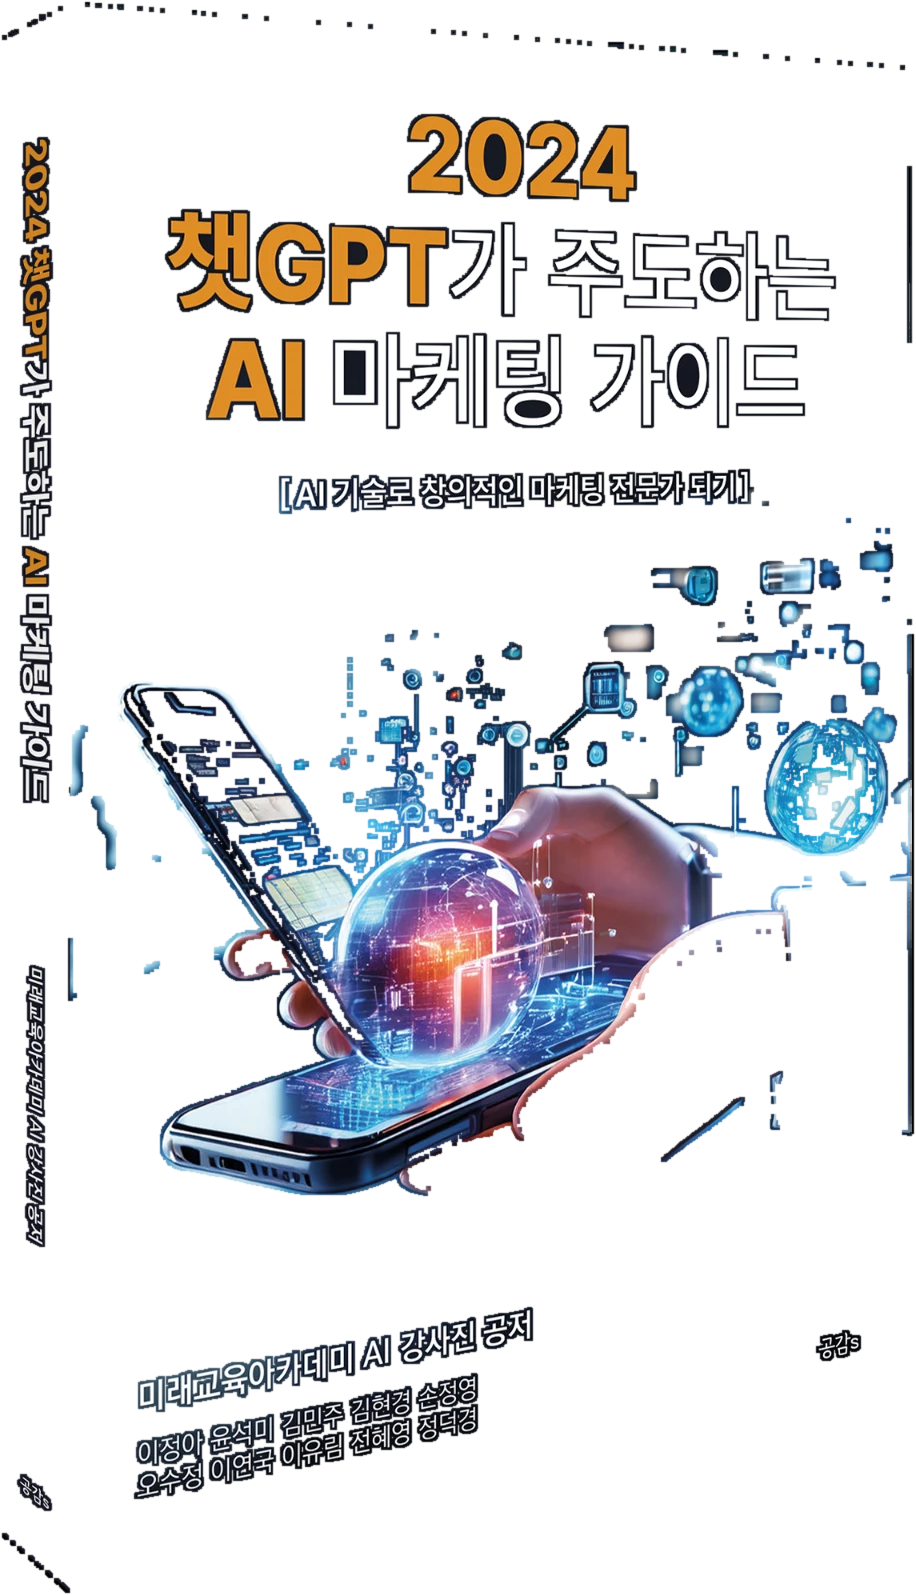
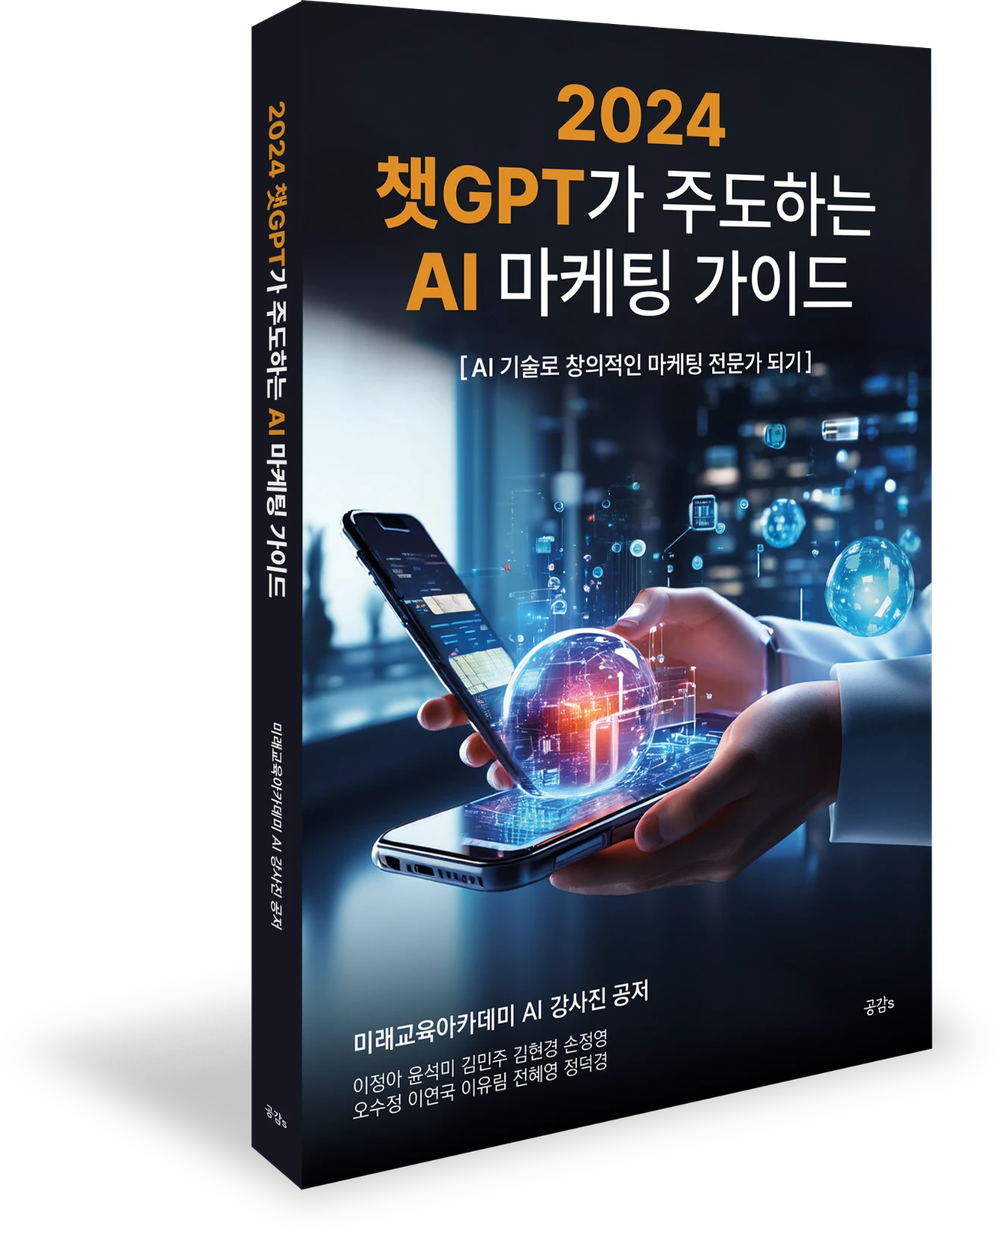
저서 표지: 원본 복원 및 밝은 스튜디오 패널로 배치
- 전달받은 원본이 이미 투명 배경이었는데 불필요한 배경 제거를 적용해
  표지의 어두운 영역이 손실됐던 문제 수정. 원본 픽셀 그대로 사용
- 어두운 표지를 어두운 배경에서 구분하기 위해 밝은 패널 위에 배치
- 네온 광·회전 효과 제거, 목업 자체 그림자만 사용

diff --git a/index.html b/index.html
@@ -397,28 +397,21 @@
   }
   .bs-sub{margin:0 0 14px;font-size:16px;color:var(--body);line-height:1.7}
   .bs-meta{margin:0;font-size:14.5px;color:var(--muted);line-height:1.75}
-  .book-stage{position:relative;display:grid;place-items:center;perspective:1400px;min-height:380px}
-  .book-stage::before{
-    content:"";position:absolute;left:50%;top:44%;transform:translate(-50%,-50%);
-    width:340px;height:340px;border-radius:50%;pointer-events:none;
-    background:radial-gradient(circle,rgba(91,140,255,.5) 0%,rgba(34,211,238,.2) 46%,transparent 72%);
-    filter:blur(28px);
-  }
-  .book-stage::after{
-    content:"";position:absolute;left:50%;bottom:7%;transform:translateX(-50%);
-    width:56%;height:26px;border-radius:50%;pointer-events:none;
-    background:radial-gradient(ellipse at center,rgba(0,0,0,.85) 0%,transparent 72%);
-    filter:blur(10px);
+  .book-stage{
+    position:relative;display:grid;place-items:center;
+    padding:40px 26px;border-radius:18px;overflow:hidden;
+    background:radial-gradient(135% 105% at 50% 0%,#f7f9ff 0%,#e6ebf8 55%,#ccd6ec 100%);
+    border:1px solid rgba(255,255,255,.22);
+    box-shadow:inset 0 1px 0 rgba(255,255,255,.9), 0 30px 56px -30px rgba(0,0,0,.85);
   }
   .book-stage img{
-    position:relative;width:min(238px,72%);height:auto;
-    transform:rotateY(-11deg) rotateX(2deg);
-    filter:drop-shadow(-16px 16px 26px rgba(0,0,0,.8));
+    width:min(240px,74%);height:auto;
+    filter:drop-shadow(0 16px 22px rgba(30,42,78,.28));
   }
   @media(max-width:820px){
     .book-show{grid-template-columns:1fr;gap:26px;text-align:left}
-    .book-stage{min-height:320px}
-    .book-stage img{width:min(200px,62%)}
+    .book-stage{padding:32px 20px}
+    .book-stage img{width:min(196px,62%)}
   }
   .awards{list-style:none;margin:0;padding:0}
   .awards li{font-size:15.5px;padding:10px 0;border-bottom:1px dashed var(--line)}
@@ -1186,7 +1179,7 @@
         </div>
         <div class="book-stage">
           <img src="assets/book.png" alt="2024 챗GPT가 주도하는 AI 마케팅 가이드 표지"
-               width="916" height="1595" loading="lazy" />
+               width="1000" height="1234" loading="lazy" />
         </div>
       </div>
 
